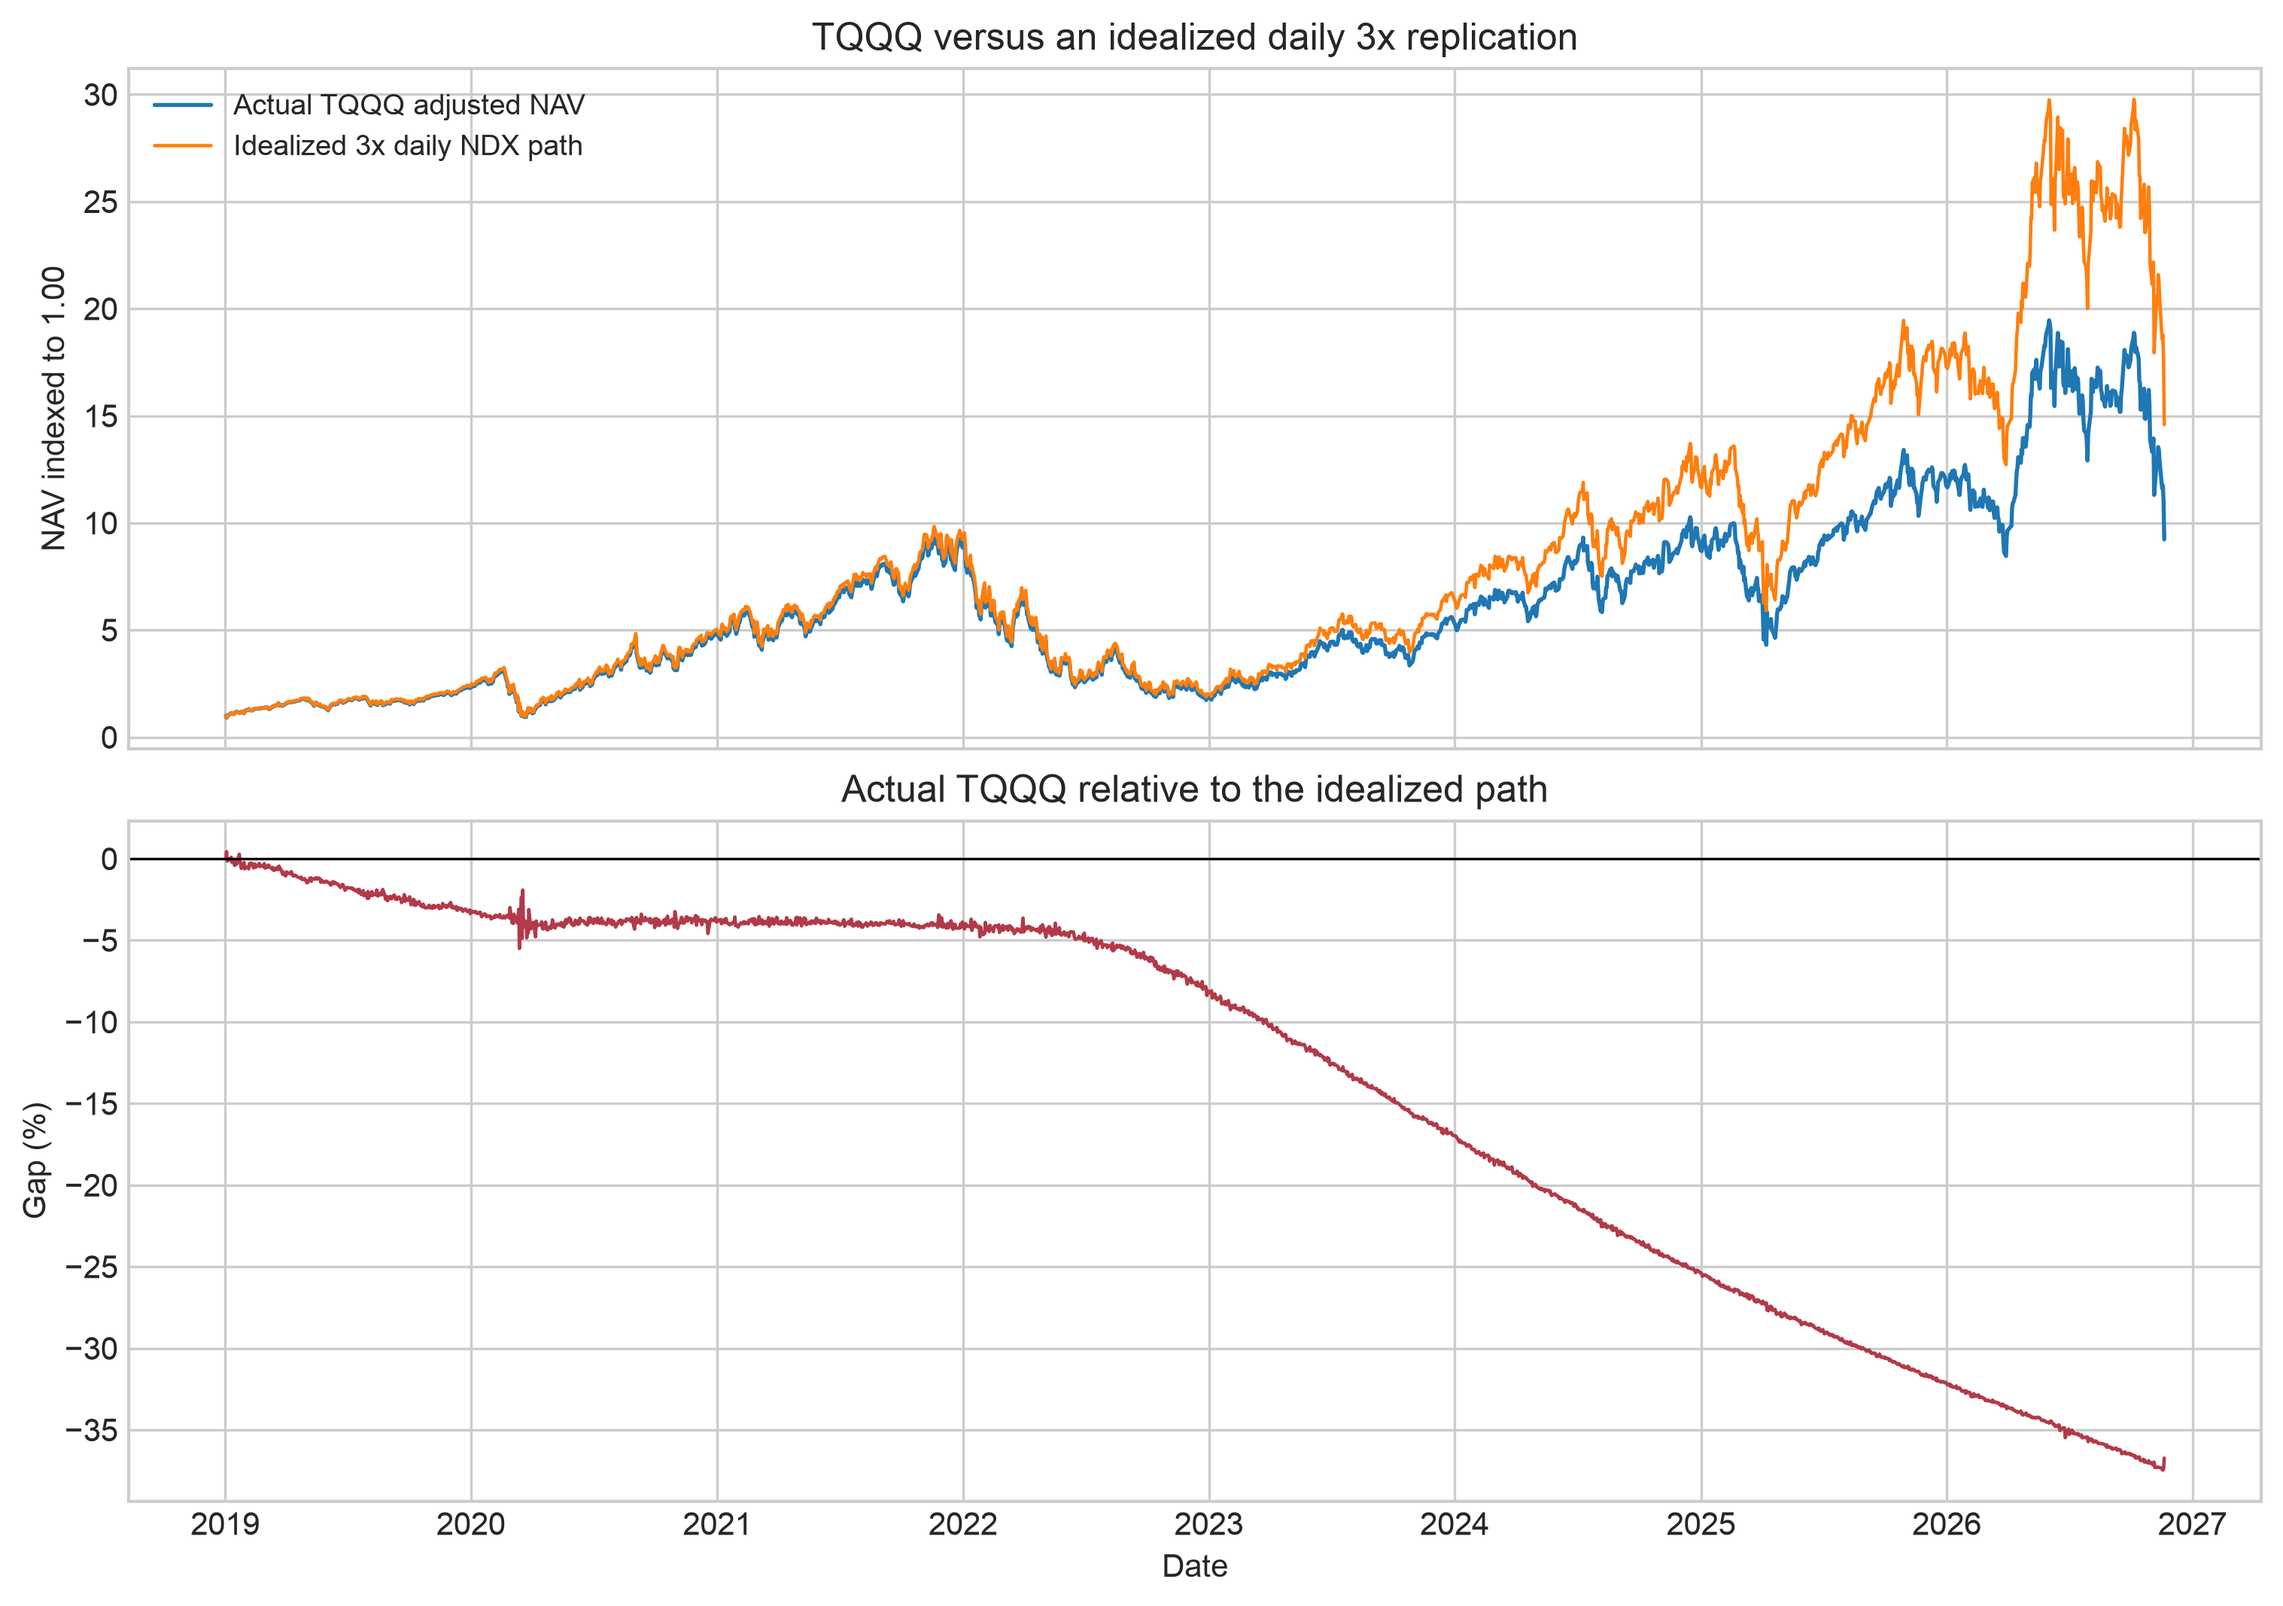
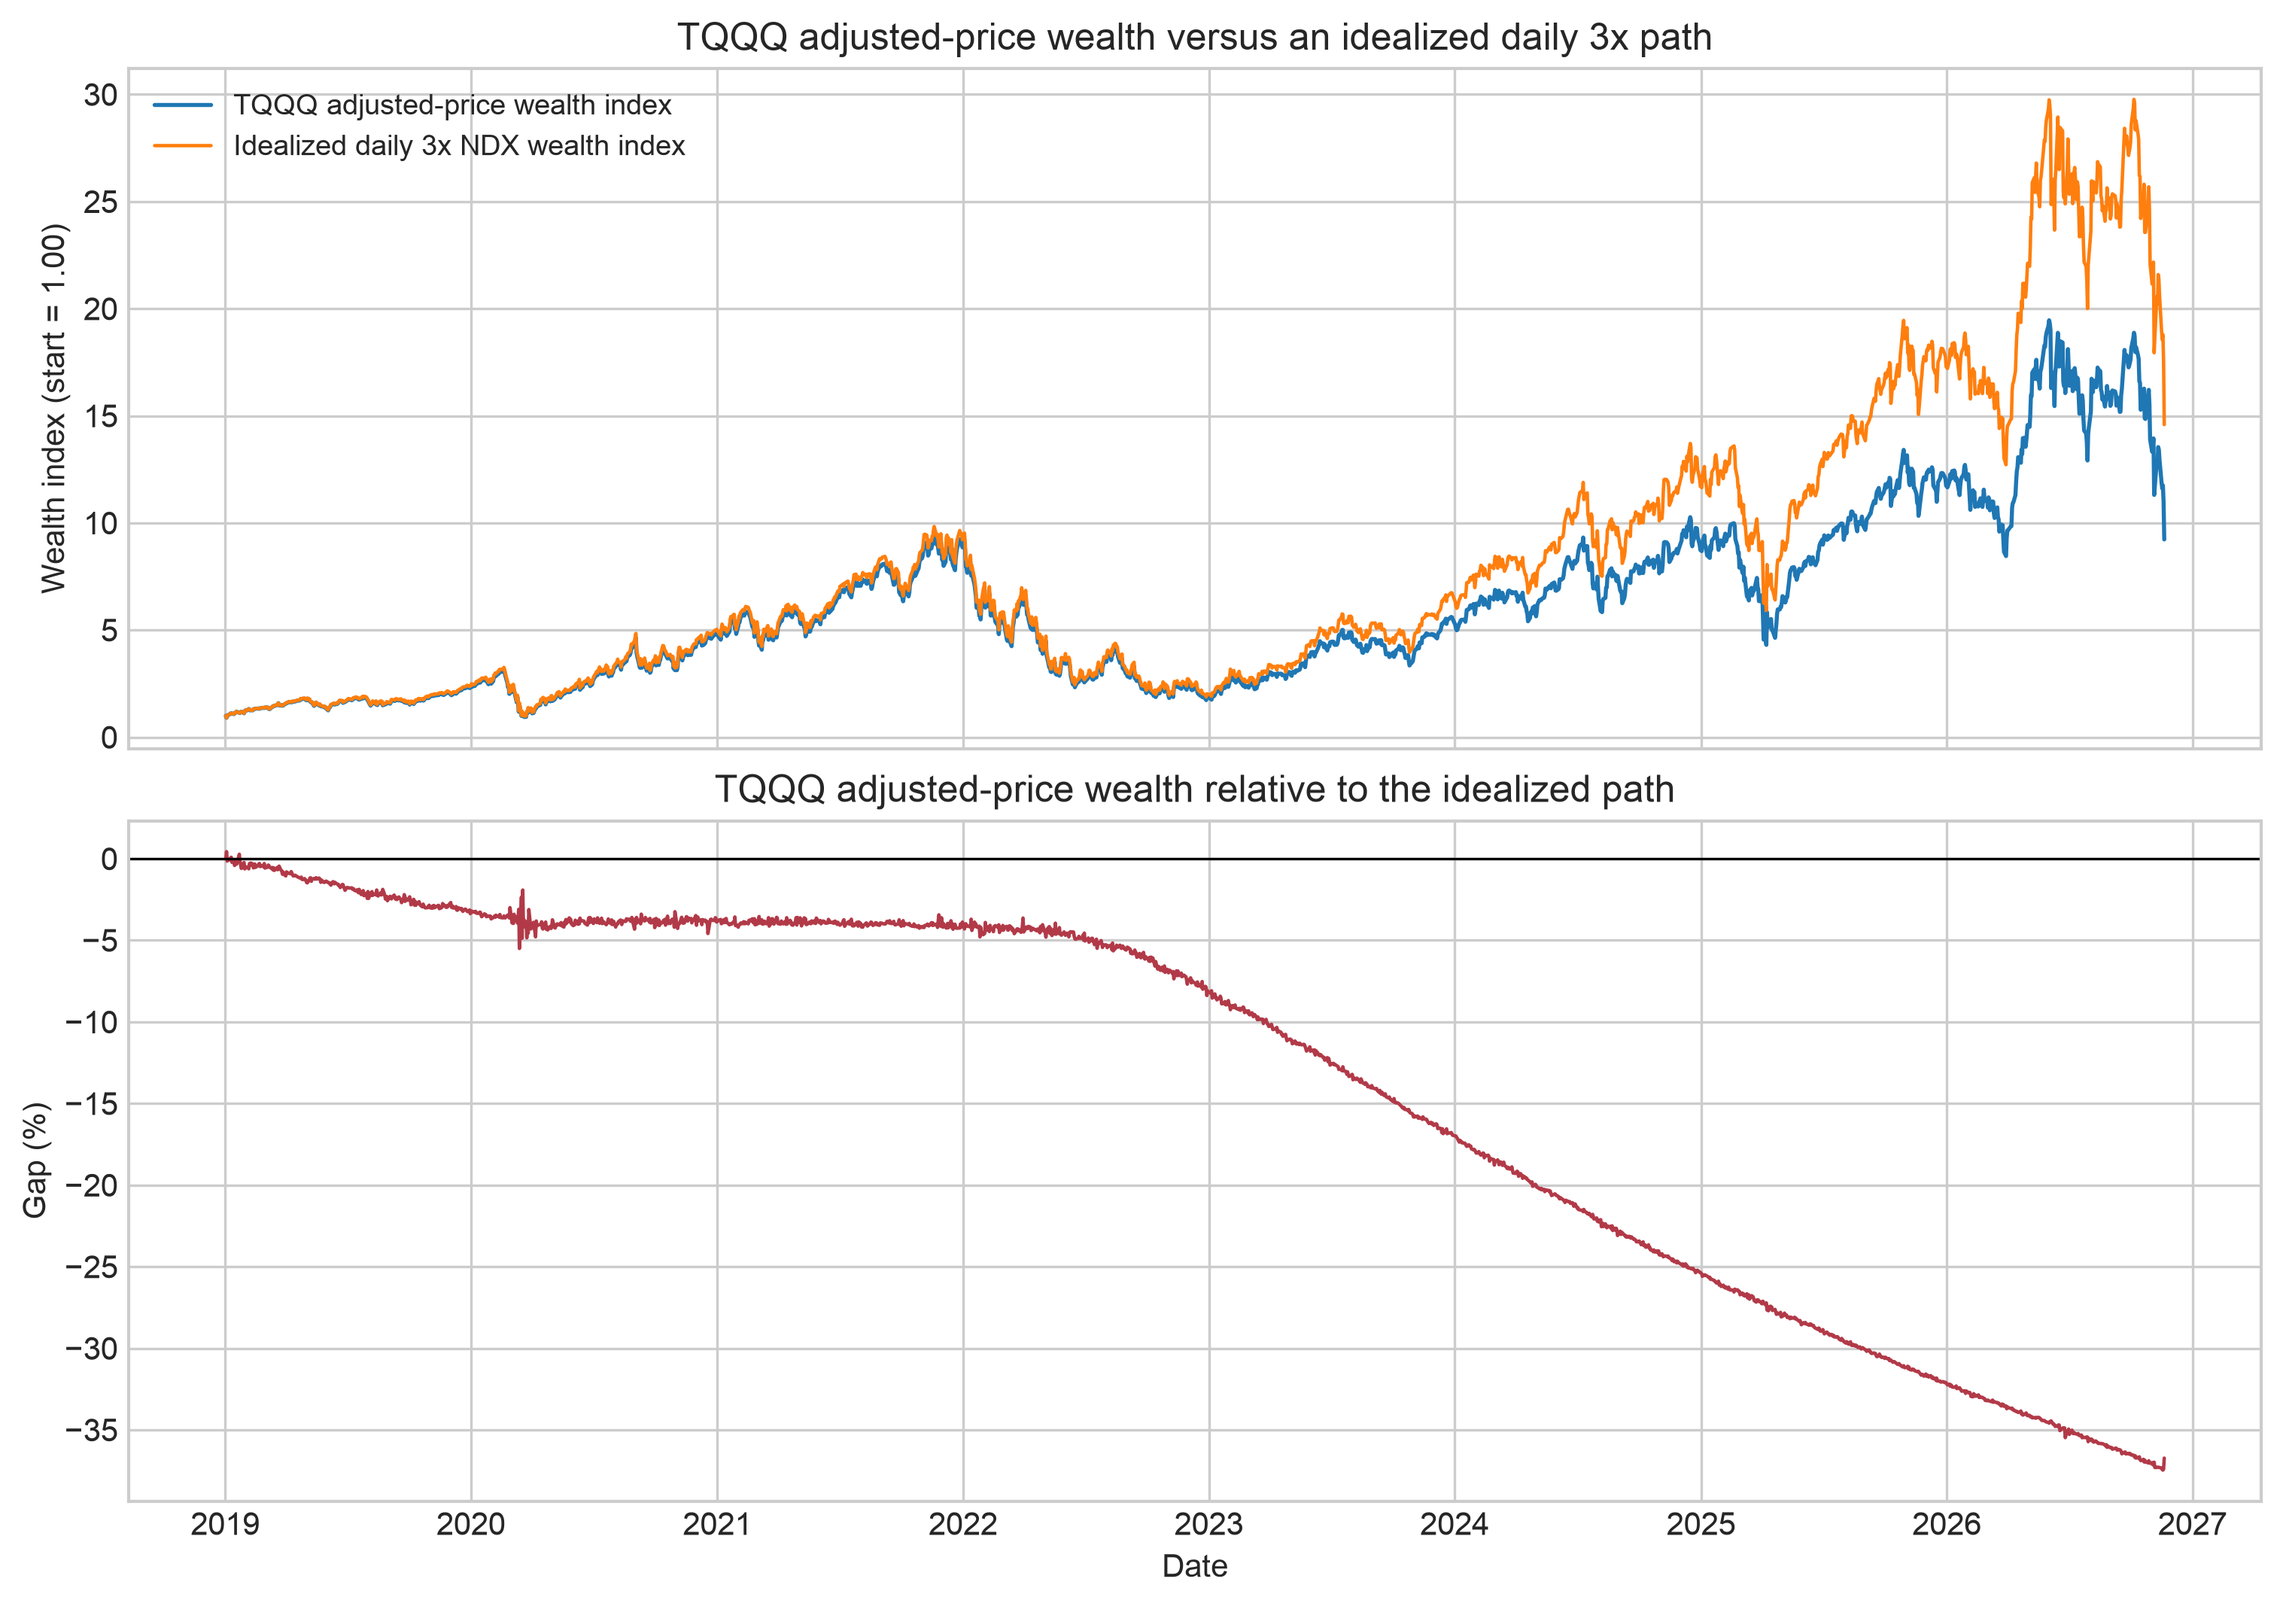
Label adjusted-price paths as wealth indexes

diff --git a/scripts/02_part1_replication.py b/scripts/02_part1_replication.py
@@ -1,10 +1,10 @@
 """Create the Part 1 idealized daily-reset replication check.
 
-The check is deliberately diagnostic: it starts the idealized NAV at the
-same value as TQQQ and compounds 3 times the daily NDX price return. The gap
-to adjusted TQQQ is not treated as a model error because actual TQQQ also
-reflects fees, financing, trading, tracking differences, distributions and
-the fact that NDX here is a price index.
+The check is deliberately diagnostic: it compares a TQQQ adjusted-price
+wealth index with an idealized wealth index that compounds 3 times the daily
+NDX price return. The gap is not treated as a model error because the TQQQ
+adjusted-price series also reflects fees, financing, trading, tracking
+differences and distributions, while NDX here is a price index.
 """
 
 from __future__ import annotations
@@ -48,18 +48,22 @@ def main() -> None:
         validate="one_to_one",
     )
 
-    frame["TQQQ_actual_nav"] = frame["TQQQ_price"]
-    frame["TQQQ_actual_nav_index"] = frame["TQQQ_price"] / frame["TQQQ_price"].iloc[0]
-    frame["TQQQ_ideal_nav"] = frame["TQQQ_price"].iloc[0] * (
+    frame["TQQQ_adjusted_price_wealth_index"] = (
+        frame["TQQQ_price"] / frame["TQQQ_price"].iloc[0]
+    )
+    frame["TQQQ_idealized_3x_wealth_index"] = (
         1.0 + LEVERAGE * frame["NDX_simple_ret"].fillna(0.0)
     ).cumprod()
-    frame["TQQQ_ideal_nav_index"] = frame["TQQQ_ideal_nav"] / frame["TQQQ_price"].iloc[0]
-    frame["tracking_gap_pct"] = frame["TQQQ_actual_nav_index"] / frame["TQQQ_ideal_nav_index"] - 1.0
+    frame["tracking_gap_pct"] = (
+        frame["TQQQ_adjusted_price_wealth_index"]
+        / frame["TQQQ_idealized_3x_wealth_index"]
+        - 1.0
+    )
 
     output_columns = [
         "Date",
-        "TQQQ_actual_nav_index",
-        "TQQQ_ideal_nav_index",
+        "TQQQ_adjusted_price_wealth_index",
+        "TQQQ_idealized_3x_wealth_index",
         "tracking_gap_pct",
         "NDX_simple_ret",
     ]
@@ -78,8 +82,14 @@ def main() -> None:
             ["leverage_target", LEVERAGE],
             ["common_price_rows", len(frame)],
             ["return_observations", int(frame["NDX_simple_ret"].notna().sum())],
-            ["actual_final_nav_index", last["TQQQ_actual_nav_index"]],
-            ["ideal_final_nav_index", last["TQQQ_ideal_nav_index"]],
+            [
+                "adjusted_price_final_wealth_index",
+                last["TQQQ_adjusted_price_wealth_index"],
+            ],
+            [
+                "idealized_3x_final_wealth_index",
+                last["TQQQ_idealized_3x_wealth_index"],
+            ],
             ["final_tracking_gap_pct", last["tracking_gap_pct"]],
             [
                 "daily_return_correlation_actual_vs_3x_ndx",
@@ -96,22 +106,22 @@ def main() -> None:
     fig, axes = plt.subplots(2, 1, figsize=(10, 7), sharex=True, constrained_layout=True)
     axes[0].plot(
         frame["Date"],
-        frame["TQQQ_actual_nav_index"],
-        label="Actual TQQQ adjusted NAV",
+        frame["TQQQ_adjusted_price_wealth_index"],
+        label="TQQQ adjusted-price wealth index",
         linewidth=1.3,
     )
     axes[0].plot(
         frame["Date"],
-        frame["TQQQ_ideal_nav_index"],
-        label="Idealized 3x daily NDX path",
+        frame["TQQQ_idealized_3x_wealth_index"],
+        label="Idealized daily 3x NDX wealth index",
         linewidth=1.1,
     )
-    axes[0].set_title("TQQQ versus an idealized daily 3x replication")
-    axes[0].set_ylabel("NAV indexed to 1.00")
+    axes[0].set_title("TQQQ adjusted-price wealth versus an idealized daily 3x path")
+    axes[0].set_ylabel("Wealth index (start = 1.00)")
     axes[0].legend(loc="upper left")
     axes[1].plot(frame["Date"], 100.0 * frame["tracking_gap_pct"], color="#b23a48", linewidth=1.1)
     axes[1].axhline(0.0, color="black", linewidth=0.8)
-    axes[1].set_title("Actual TQQQ relative to the idealized path")
+    axes[1].set_title("TQQQ adjusted-price wealth relative to the idealized path")
     axes[1].set_ylabel("Gap (%)")
     axes[1].set_xlabel("Date")
     fig.savefig(FIGURE_DIR / "fig_part1_replication.png", bbox_inches="tight")

diff --git a/tests/test_part1_data.py b/tests/test_part1_data.py
@@ -12,6 +12,10 @@ RETURNS_FILE = ROOT / "data" / "processed" / "part1_clean_returns.csv"
 CANONICAL_RETURNS_FILE = ROOT / "data" / "processed" / "clean_returns.csv"
 SQQQ_RAW_FILE = ROOT / "data" / "raw" / "SQQQ_raw.csv"
 PRODUCT_FACTS_FILE = ROOT / "data" / "metadata" / "part1_product_facts.csv"
+REPLICATION_PATH_FILE = ROOT / "outputs" / "part1" / "tables" / "part1_replication_path.csv"
+REPLICATION_SUMMARY_FILE = (
+    ROOT / "outputs" / "part1" / "tables" / "table_part1_replication.csv"
+)
 
 
 def read_rows(path: Path) -> list[dict[str, str]]:
@@ -148,6 +152,33 @@ class Part1DataTests(unittest.TestCase):
             with self.subTest(ticker=ticker):
                 for fact, value in expected_facts.items():
                     self.assertEqual(facts[ticker].get(fact), value)
+
+    def test_replication_outputs_use_wealth_index_not_nav(self):
+        path_rows = read_rows(REPLICATION_PATH_FILE)
+        self.assertTrue(path_rows)
+        self.assertEqual(
+            set(path_rows[0]),
+            {
+                "Date",
+                "TQQQ_adjusted_price_wealth_index",
+                "TQQQ_idealized_3x_wealth_index",
+                "tracking_gap_pct",
+                "NDX_simple_ret",
+            },
+        )
+        self.assertFalse(any("nav" in column.lower() for column in path_rows[0]))
+
+        summary = {row["metric"]: row["value"] for row in read_rows(REPLICATION_SUMMARY_FILE)}
+        self.assertNotIn("actual_final_nav_index", summary)
+        self.assertNotIn("ideal_final_nav_index", summary)
+        self.assertAlmostEqual(
+            float(summary["adjusted_price_final_wealth_index"]),
+            9.230664304230752,
+        )
+        self.assertAlmostEqual(
+            float(summary["idealized_3x_final_wealth_index"]),
+            14.589359383419465,
+        )
 
 
 if __name__ == "__main__":

diff --git a/tests/README.md b/tests/README.md
@@ -154,8 +154,8 @@ For 2019-01-02 through 2026-11-20, the current output reports:
 | Metric | Current value |
 |---|---:|
 | Correlation: actual TQQQ daily return vs. `3 x NDX` | 0.9989 |
-| Actual TQQQ final normalized NAV | 9.2307 |
-| Idealized daily 3x final normalized NAV | 14.5894 |
+| TQQQ adjusted-price final wealth index | 9.2307 |
+| Idealized daily 3x final wealth index | 14.5894 |
 | Actual path relative to idealized path | 36.73% lower |
 
 This gap must not be labelled entirely as volatility decay. It also contains
@@ -166,7 +166,7 @@ an exact replication model for the fund.
 
 ## 8. Automated test coverage
 
-`test_part1_data.py` currently checks eight data and metadata properties:
+`test_part1_data.py` currently checks nine data, metadata and output properties:
 
 | Test | What it protects |
 |---|---|
@@ -178,13 +178,14 @@ an exact replication model for the fund.
 | `test_canonical_returns_include_all_four_series` | The canonical table contains finite prices and returns for all four series |
 | `test_sqqq_daily_returns_track_the_inverse_ndx_direction` | SQQQ daily returns remain highly correlated with the idealized `-3 x NDX` target |
 | `test_product_facts_cover_qqq_tqqq_and_sqqq` | Product facts cover all three ETFs, use official HTTPS sources, share the stated access date and retain the reviewed names, objectives, fees and TQQQ waiver expiry |
+| `test_replication_outputs_use_wealth_index_not_nav` | Replication CSVs label Yahoo adjusted prices as a wealth index rather than official fund NAV and retain the expected terminal values |
 
 `test_financial_conventions.py` adds five tests for log-to-simple return
 conversion, path dependence, the simulated NAV floor, uncapped short losses,
 and the positive-loss VaR/ES convention. `test_stata_exports.py` adds two tests
 that require every tracked CSV to have a readable, same-sized `.dta` copy and
 that verify the analysis date variable is stored correctly. The current suite
-contains fifteen tests for the data, metadata and existing conventions.
+contains sixteen tests for the data, metadata, outputs and existing conventions.
 
 `test_part1_analysis.py` adds six tests for the runnable Part 1 analysis:
 
@@ -197,7 +198,7 @@ contains fifteen tests for the data, metadata and existing conventions.
 | `test_configured_window_and_review_observations_are_retained` | Inclusive date filtering, minimum sample length and preservation of flagged rows |
 | `test_pipeline_exports_matching_dates_and_preserves_input` | Two numeric CSV/DTA table pairs, actual date formats, PNG creation and unchanged input bytes |
 
-The complete suite contains twenty-one tests. The analysis export helper also
+The complete suite contains twenty-two tests. The analysis export helper also
 checks every generated CSV/DTA round trip for names, values, dates and text.
 
 Run all tests from the repository root:

diff --git a/docs/part1_data_notes.md b/docs/part1_data_notes.md
@@ -85,10 +85,12 @@ reason to delete data or force the curves to match.
 ## Results to mention in the presentation
 
 For the current common window, the diagnostic has 1,984 price rows and 1,983
-return observations. The actual and idealized daily returns have a high
-correlation, while the cumulative NAV paths diverge materially. The exact
-values are in `outputs/part1/tables/table_part1_replication.csv`; use those values in
-slides rather than manually retyping numbers.
+return observations. The TQQQ adjusted-price return and idealized daily return
+have a high correlation, while their cumulative wealth indexes diverge
+materially. The TQQQ series is a Yahoo adjusted-price wealth index, not an
+official fund NAV series. The exact values are in
+`outputs/part1/tables/table_part1_replication.csv`; use those values in slides
+rather than manually retyping numbers.
 
 Use `data/processed/clean_returns.csv` for new group-wide analysis. The
 `part1_clean_*` files remain available for the existing replication script and

diff --git a/README.md b/README.md
@@ -127,7 +127,7 @@ Shared raw/processed data and audit metadata remain under `data/`.
 | Workstream | Main responsibility | Primary locations |
 |---|---|---|
 | A | Product research, integration, slides and report | `docs/product_profile.md`, `slides/`, `report/` |
-| B | Data, return definitions and NAV mechanics | `data.py`, `mechanics.py`, scripts 01-02 |
+| B | Data, return definitions and daily-reset wealth mechanics | `data.py`, `mechanics.py`, scripts 01-02 |
 | C | GBM/GARCH-t estimation and simulation | `models.py`, `simulation.py`, scripts 03-04 |
 | D | VaR/ES, scenarios and 1x benchmark | `risk.py`, `scenarios.py`, script 05 |
 | E | Backtesting, coverage tests and limits | `backtesting.py`, script 06 |
